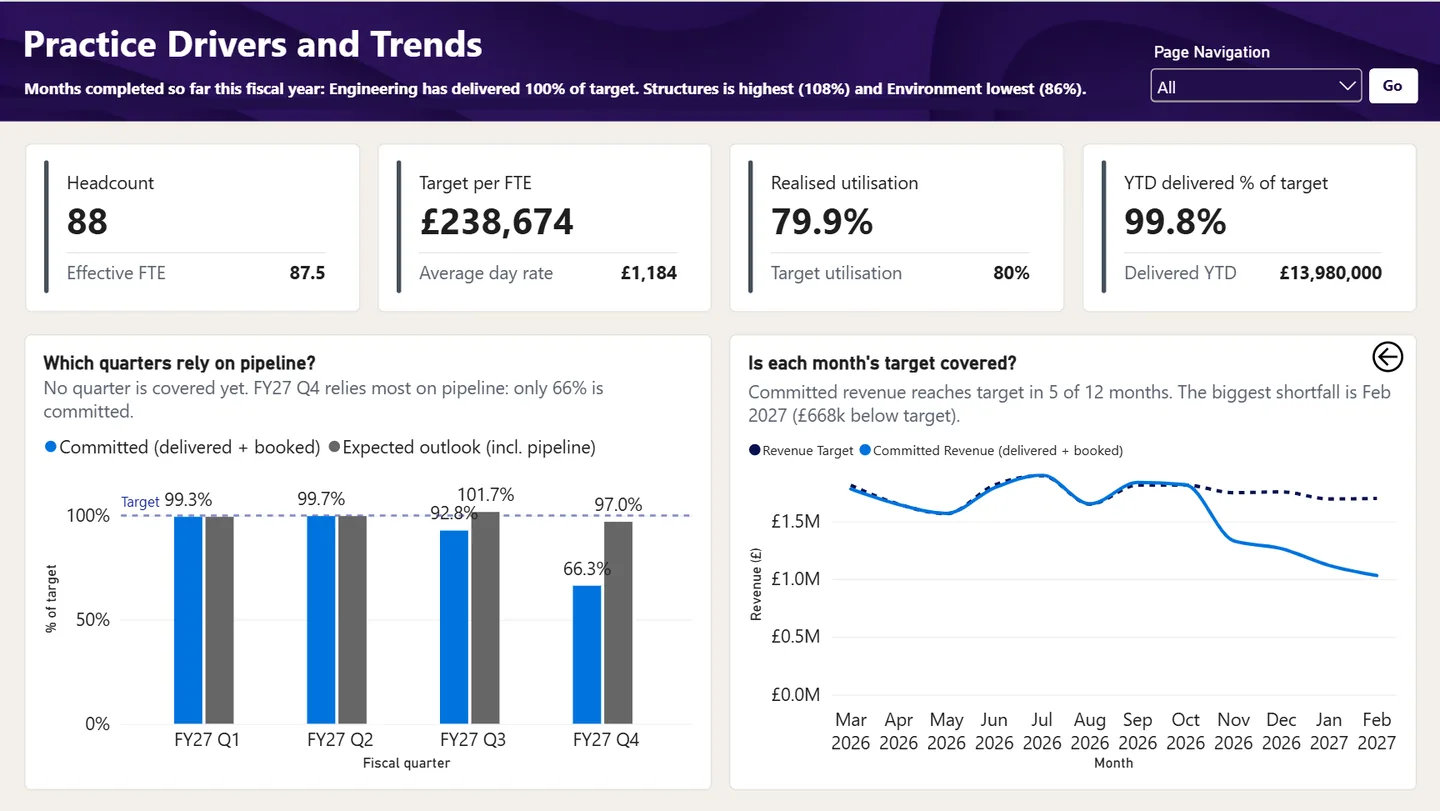
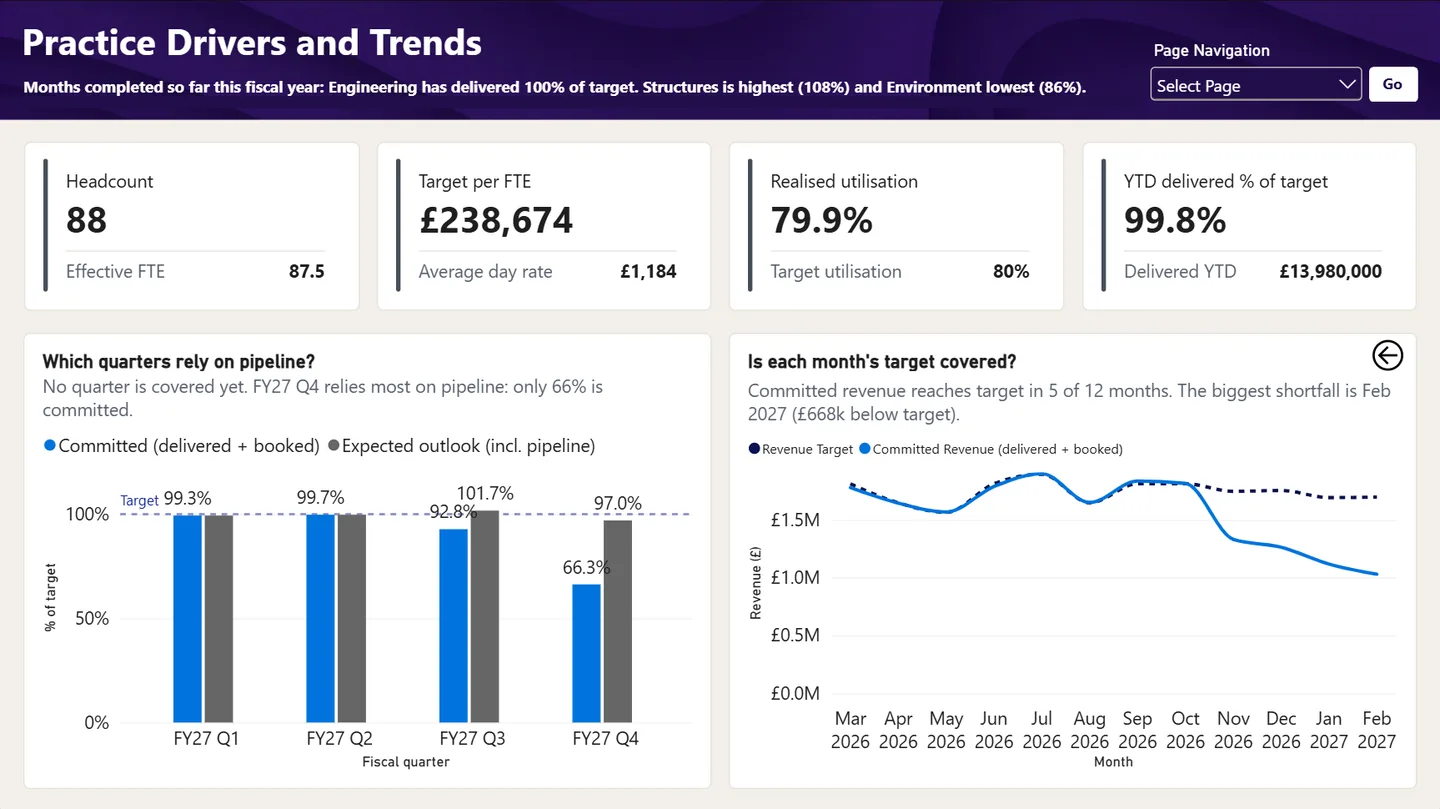
Replace fifth Practice on a Page screenshot
Claude-Session: https://claude.ai/code/session_013VTtdhBDbdFrUGrRuq3ADD

diff --git a/index.html b/index.html
@@ -225,7 +225,7 @@
     </nav>
   </div>
 </footer>
-<script src="data/site.js?v=15"></script>
+<script src="data/site.js?v=16"></script>
 <script src="assets/js/nav.js?v=7"></script>
 <script src="assets/js/app.js?v=7"></script>
 </body>
